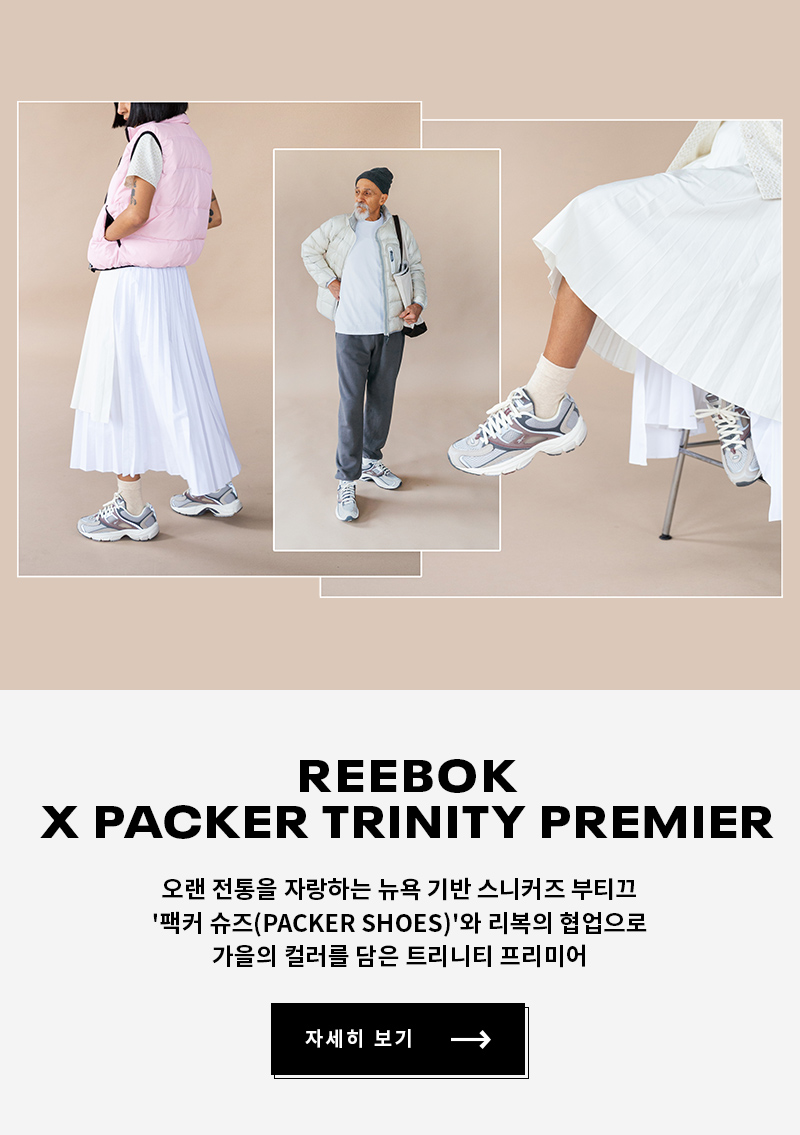
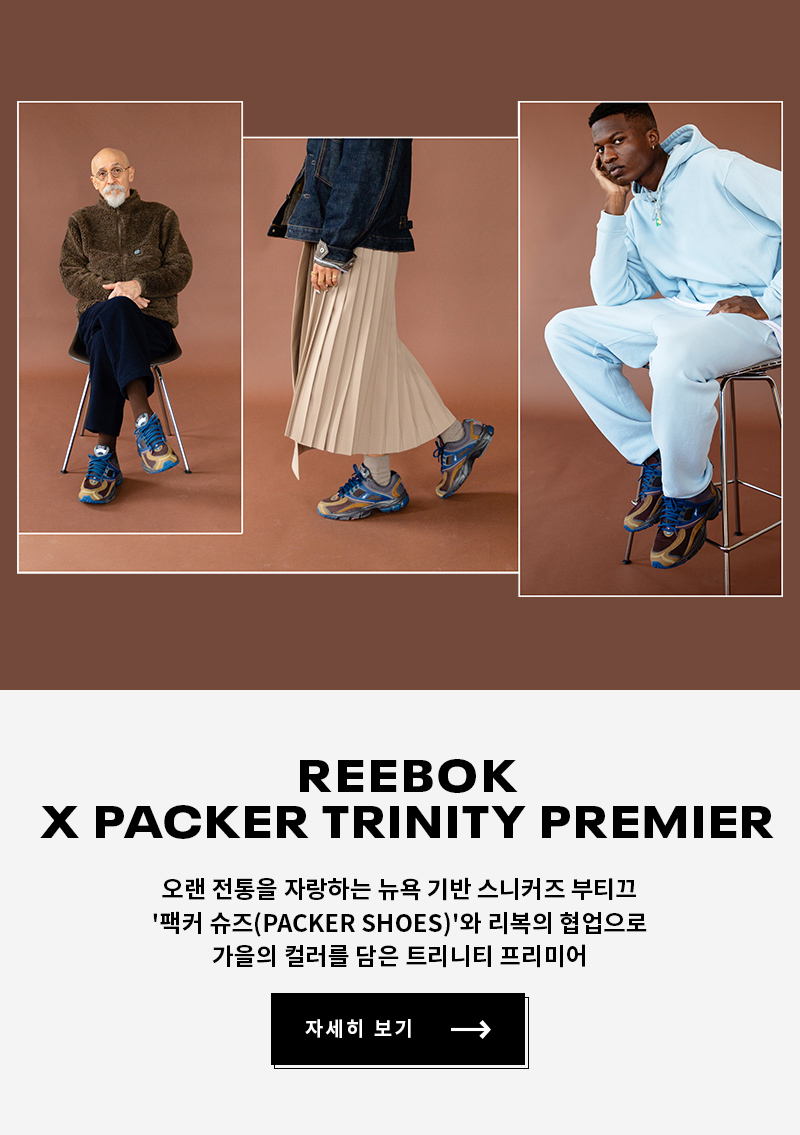
ree_CP_콜라보 이미지 수정

diff --git a/mobile/html/reebok/pn/hype.html b/mobile/html/reebok/pn/hype.html
@@ -20,7 +20,7 @@
 								</div>
 								<style>
 										.box.prod23 .btn::before {
-												background: #dbc8b9;
+												background: #73493b;
 										}
 								</style>
 							</div>

diff --git a/mobile/html/reebok/2020/event/runstatement/build/index.html b/mobile/html/reebok/2020/event/runstatement/build/index.html
@@ -62,7 +62,7 @@
 							</div>
 							<style>
 									.box.prod23 .btn::before {
-											background: #dbc8b9;
+											background: #73493b;
 									}
 							</style>
 						</div>

diff --git a/mobile/html/reebok/2020/event/runstatement/index.html b/mobile/html/reebok/2020/event/runstatement/index.html
@@ -60,7 +60,7 @@
 							</div>
 							<style>
 									.box.prod23 .btn::before {
-											background: #dbc8b9;
+											background: #73493b;
 									}
 							</style>
 						</div>
